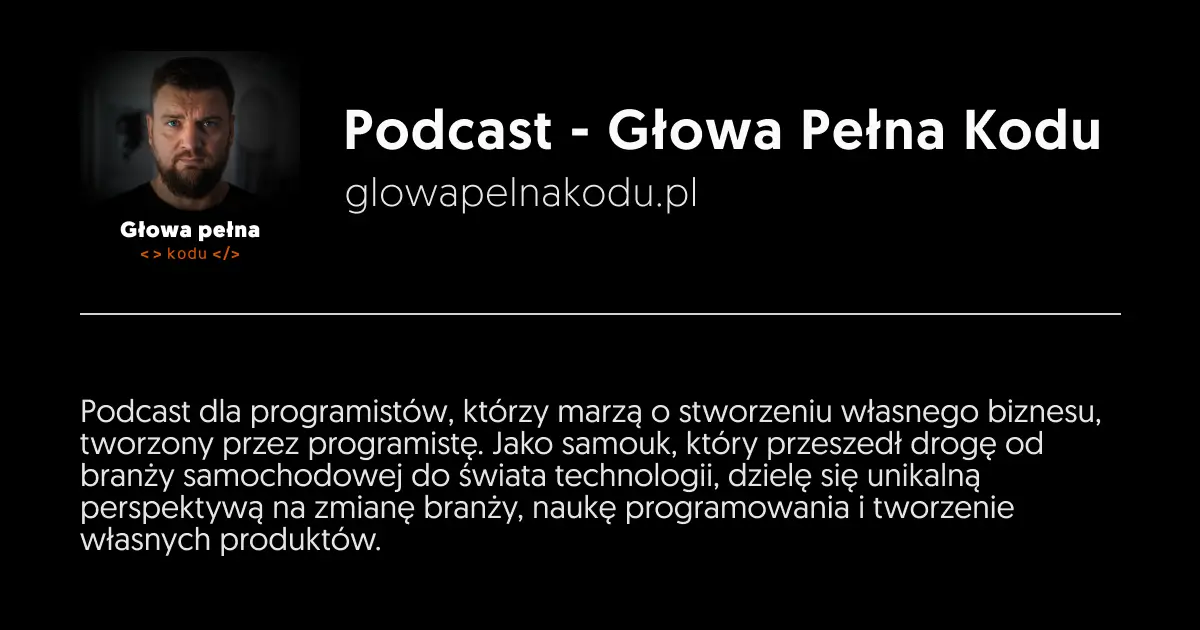
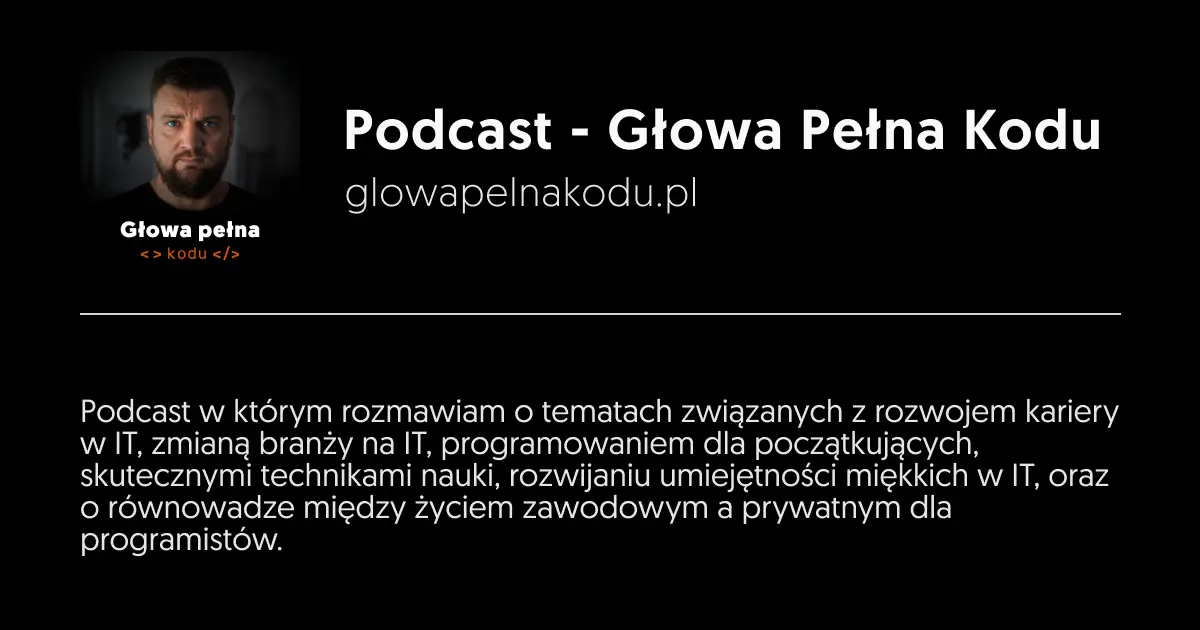
Change description.

Changed region(s): [[0.0617, 0.6333, 0.925, 0.8746]]

diff --git a/src/app/layout.tsx b/src/app/layout.tsx
@@ -7,10 +7,9 @@ export const metadata: Metadata = {
   metadataBase: new URL('https://glowapelnakodu.pl'),
   title: {
     template: 'Głowa pełna kodu',
-    default: `Głowa pełna kodu - Podcast dla programistów, którzy marzą o stworzeniu własnego biznesu,
-    tworzony przez programistę.`,
+    default: `Głowa pełna kodu - Podcast o tym jak się przekwalifikować i zdobyć pracę w branży IT`,
   },
-  description: `Podcast dla programistów, którzy marzą o stworzeniu własnego biznesu, tworzony przez programistę. Jako samouk, który przeszedł drogę od branży samochodowej do świata technologii, dzielę się unikalną perspektywą na zmianę branży, naukę programowania i tworzenie własnych produktów.`,
+  description: `Podcast o tematach związanych z rozwojem kariery w IT, zmianą branży na IT, programowaniem dla początkujących, skutecznymi technikami nauki, rozwijaniu umiejętności miękkich w IT, oraz o równowadze między życiem zawodowym a prywatnym dla programistów.`,
   openGraph: {
     images: {
       url:'/OG_GPK_1200_630.webp',

diff --git a/src/components/AboutSection.tsx b/src/components/AboutSection.tsx
@@ -23,7 +23,7 @@ export function AboutSection(props: React.ComponentPropsWithoutRef<'section'>) {
           !isExpanded && 'lg:line-clamp-4',
         )}
       >
-        Podcast dla programistów, którzy marzą o stworzeniu własnego biznesu, tworzony przez programistę. Jako samouk, który przeszedł drogę od branży samochodowej do świata technologii, dzielę się unikalną perspektywą na zmianę branży, naukę programowania i tworzenie własnych produktów.
+          Podcast o tematach związanych z rozwojem kariery w IT, zmianą branży na IT, programowaniem dla początkujących, skutecznymi technikami nauki, rozwijaniu umiejętności miękkich w IT, oraz o równowadze między życiem zawodowym a prywatnym dla programistów.
       </p>
       {!isExpanded && (
         <button

diff --git a/src/app/(main)/layout.tsx b/src/app/(main)/layout.tsx
@@ -125,7 +125,7 @@ export default function MainLayout({
               <Link href="/">Głowa pełna kodu</Link>
             </p>
             <p className="mt-3 text-lg font-medium leading-8 text-zinc-700">
-              Rozmowy o tworzeniu własnych produktów.
+              Zostań programistą – pokażę Ci, jak się przekwalifikować.
             </p>
           </div>
           <AboutSection className="mt-12 hidden lg:block" />
